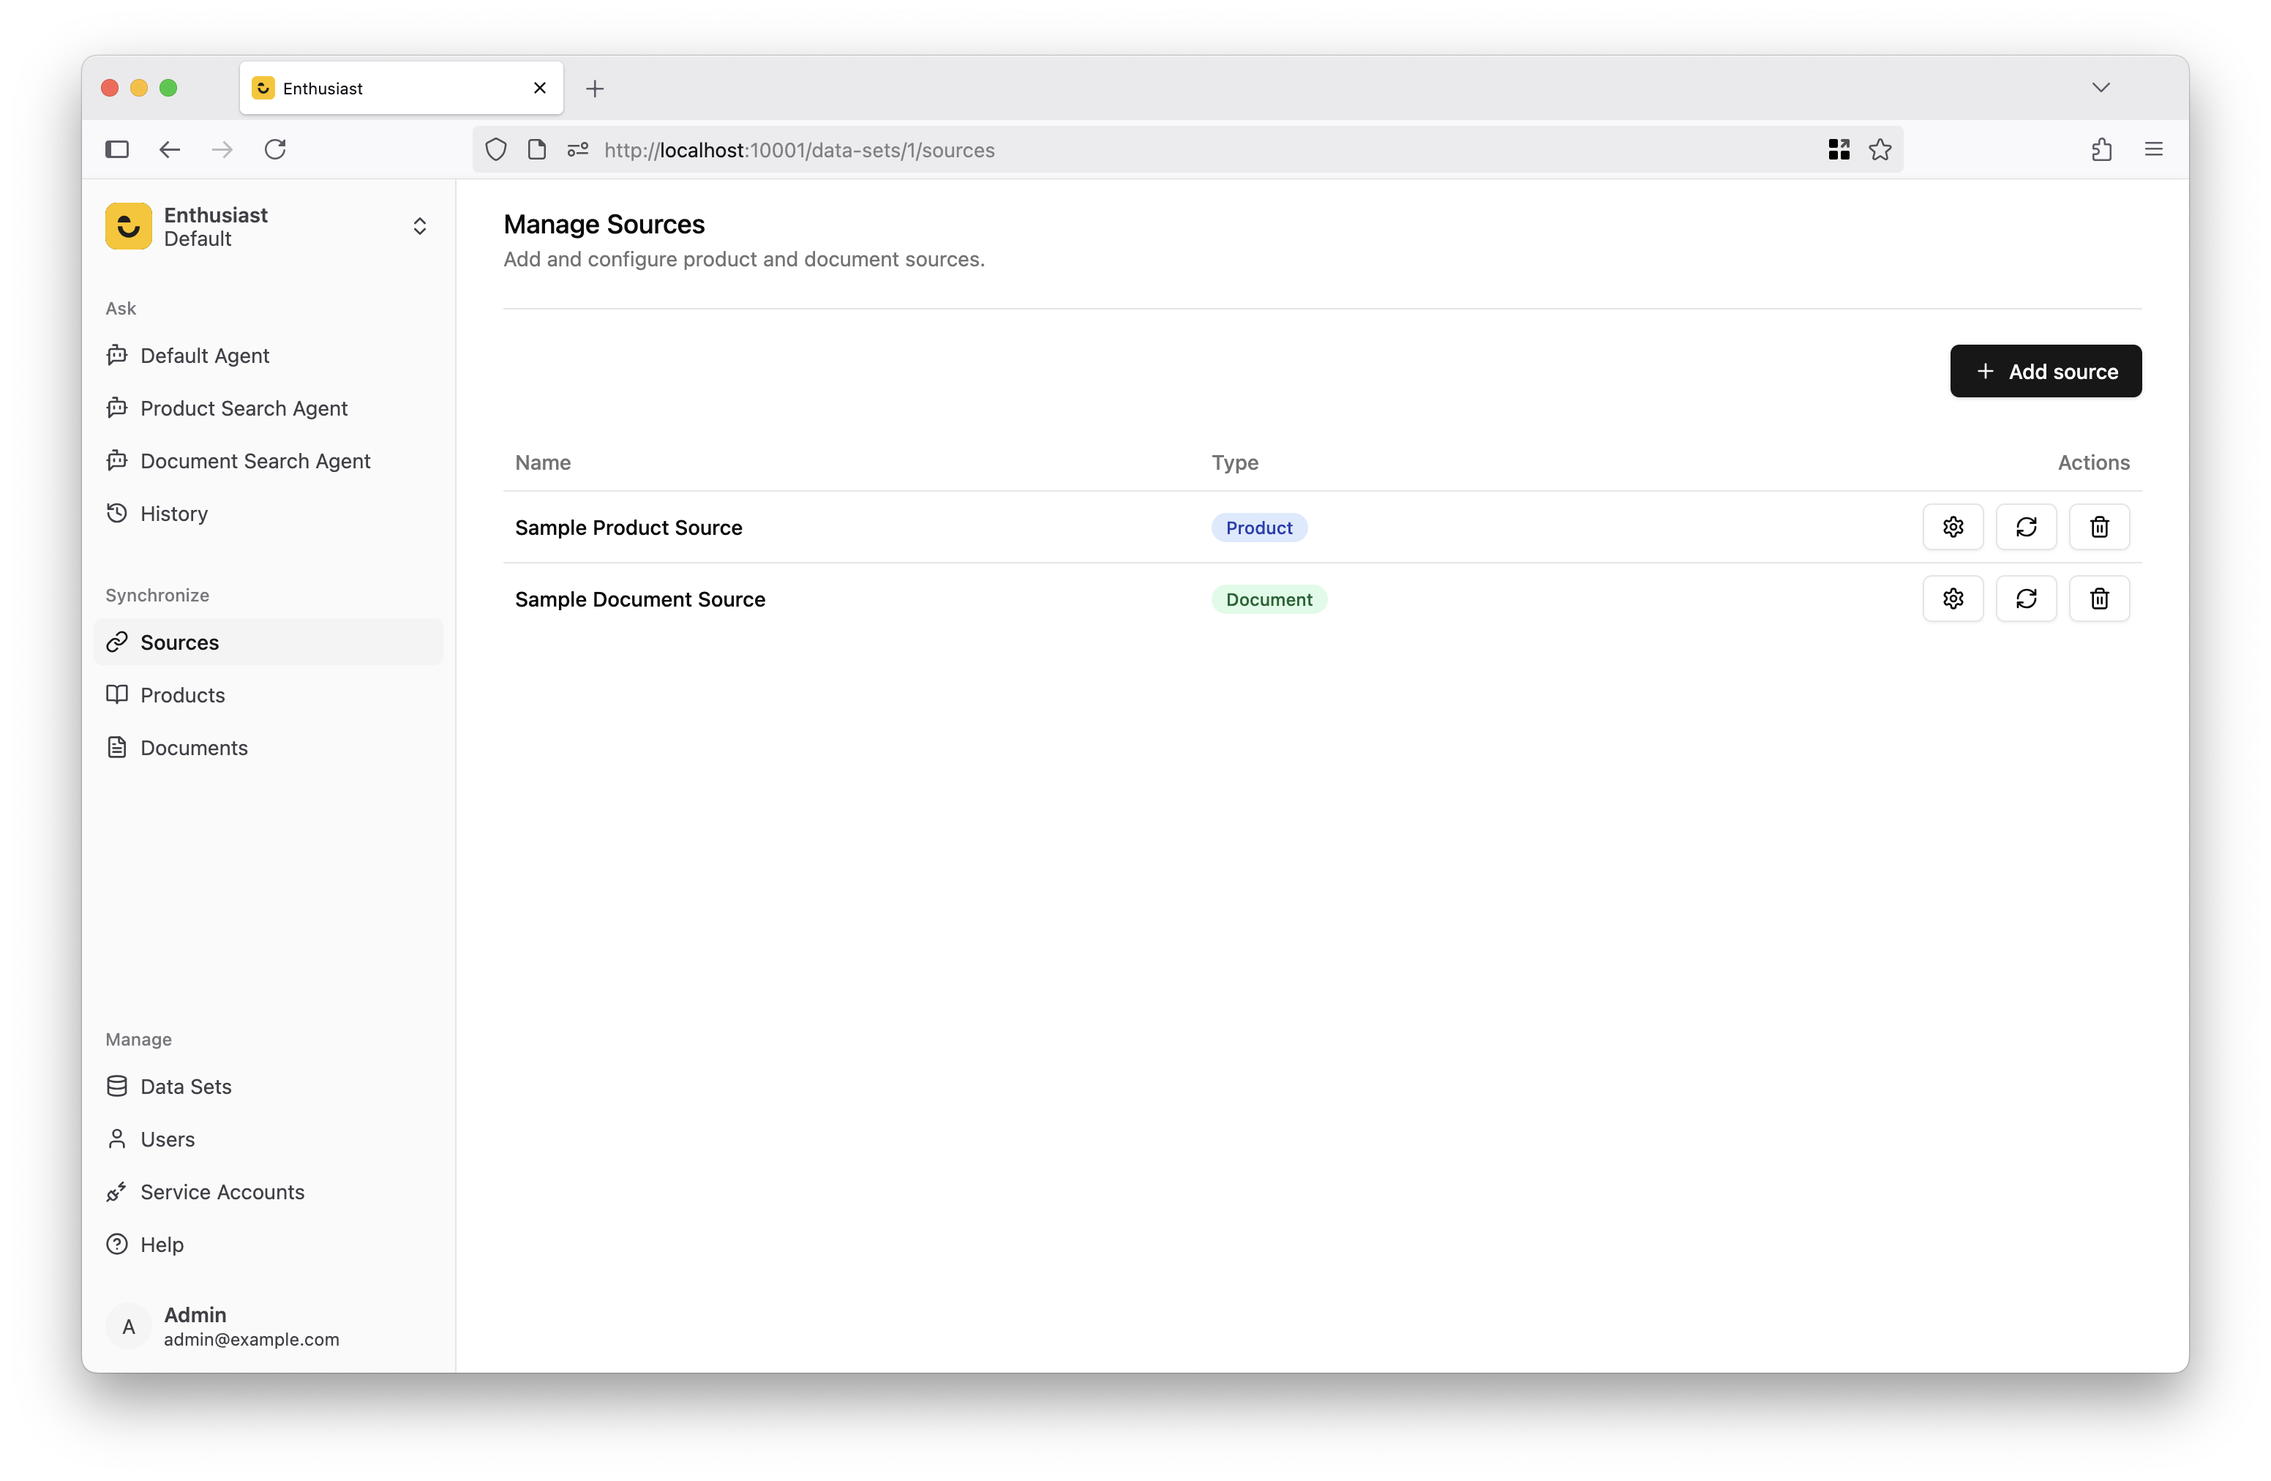
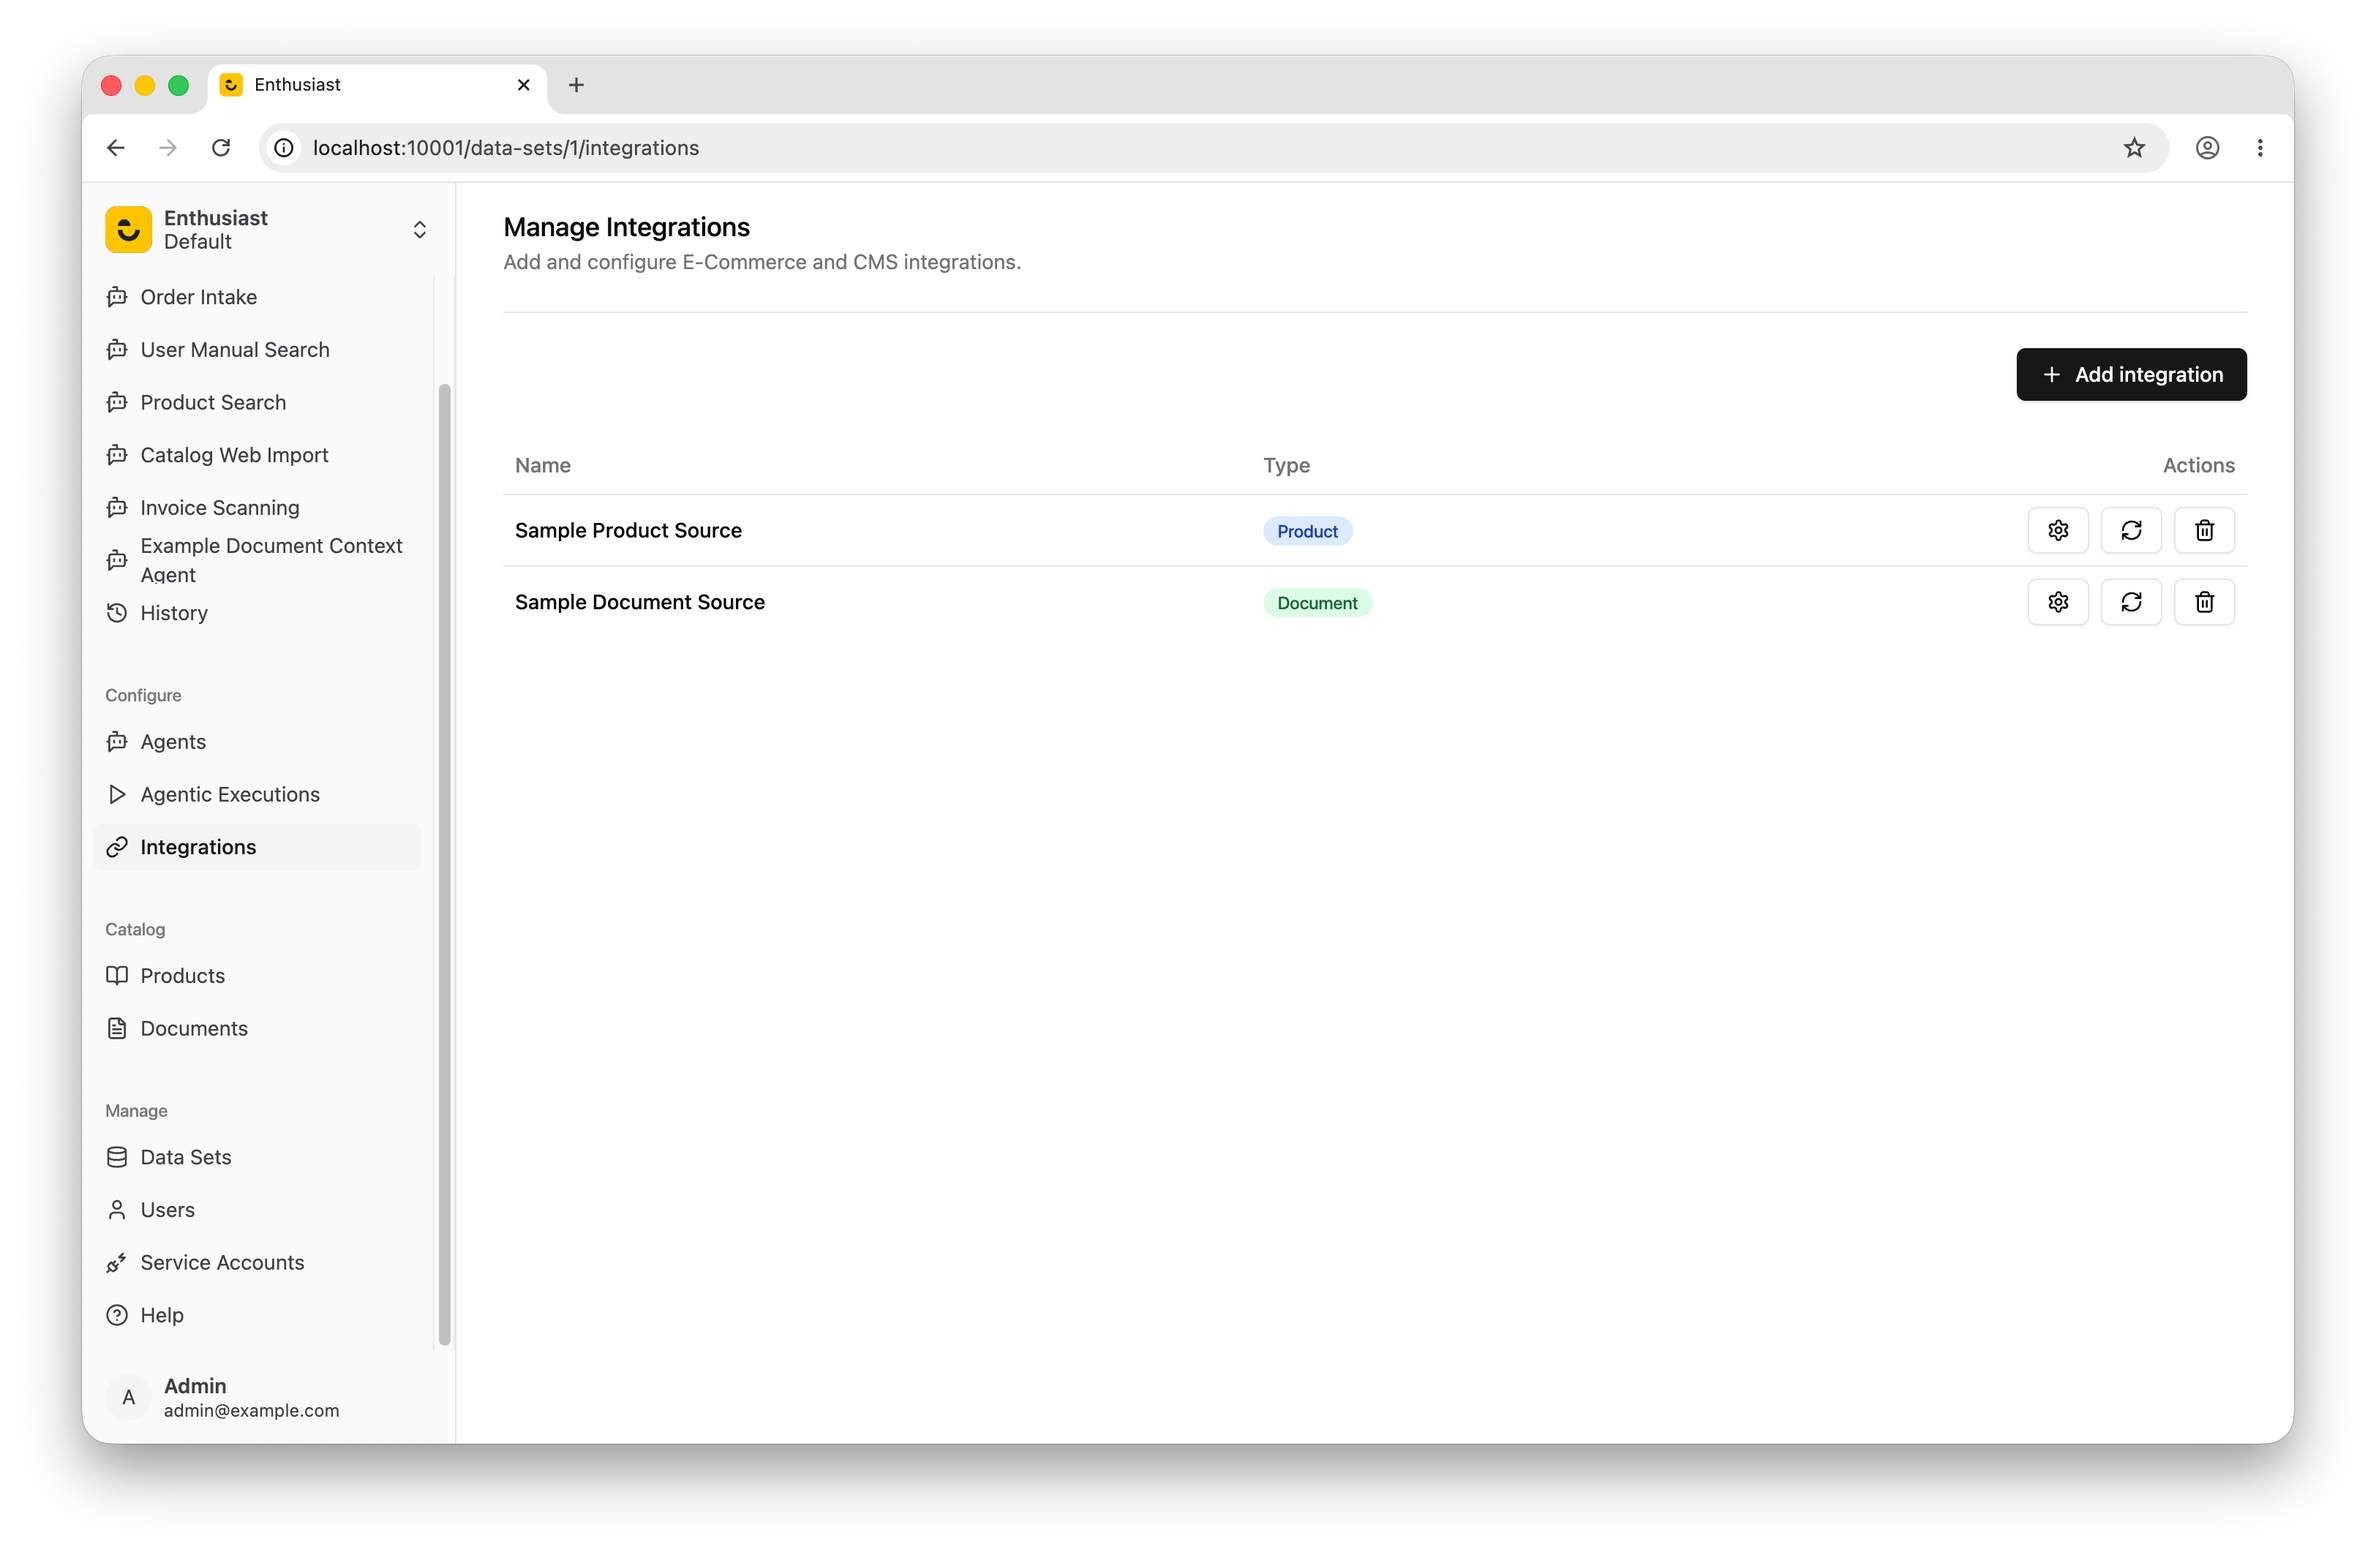
import test data page - update screenshots, fix outdated references to the navigation

diff --git a/docs/content/docs/getting-started/import-test-data.md b/docs/content/docs/getting-started/import-test-data.md
@@ -1,10 +1,10 @@
 # Importing Test Data
 
-When you sign in to Enthusiast for the first time, you’ll be prompted to create your first [data set](/docs/synchronize/manage-data-sets).
+When you sign in to Enthusiast for the first time, you’ll be prompted to create your first [data set](/docs/management/data-sets).
 
 ![Create the first data set](./img/create-data-set.png)
 
-Pick a name for your data set and click “Create”. This will take you to a screen where you can configure data sources.
+Pick a name for your data set and click “Continue”. This will take you to a screen where you can configure data sources.
 
 ## Configuring Data Sources
 
@@ -18,7 +18,7 @@ It also provides a sample source for products and documents, that can be used to
 
 ![Add a product source](./img/add-product-source.png)
 
-Click on "Add Source" in the top right corner of the screen. From the dropdown menu select "Product source". A popup will appear on the screen, allowing you to configure the source.
+To add a product source, navigate to "Configure" > "Integrations" and click on "Add Integration" in the top right corner of the screen. From the dropdown menu select "Product source". A popup will appear on the screen, allowing you to configure the source.
 
 ![Configure a product source](./img/configure-product-source.png)
 
